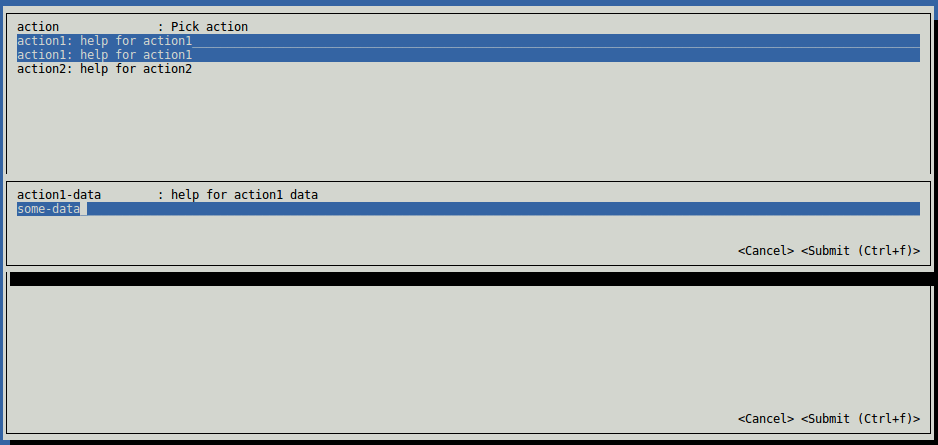
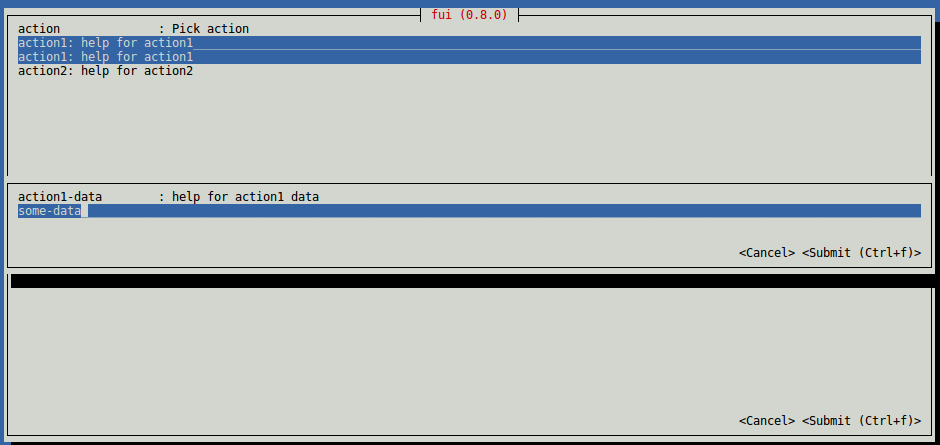
Update README.md example & app_basic screenshot

Changed region(s): [[0.0, 0.0, 1.0, 0.9933]]

diff --git a/README.md b/README.md
@@ -23,6 +23,8 @@ fui = "0.8"
 ```rust
 // Example showing imagined CLI app. with two actions
 
+#[macro_use]
+extern crate clap;
 extern crate fui;
 
 use fui::{Fui, Value};
@@ -37,18 +39,22 @@ fn main() {
     Fui::new()
         .action(
             "action1",
-            "description",
-            FormView::new().field(Text::new("action1 data").help("help for action1 data")),
+            "help for action1",
+            FormView::new().field(Text::new("action1-data").help("help for action1 data")),
             |v| {
                 println!("user input (from closure) {:?}", v);
             },
         )
         .action(
             "action2",
-            "description",
-            FormView::new().field(Text::new("action2 data").help("help for action2 data")),
+            "help for action2",
+            FormView::new().field(Text::new("action2-data").help("help for action2 data")),
             hdlr,
         )
+        .name(crate_name!())
+        .version(crate_version!())
+        .about(crate_description!())
+        .author(crate_authors!())
         .run();
 }
 ```
